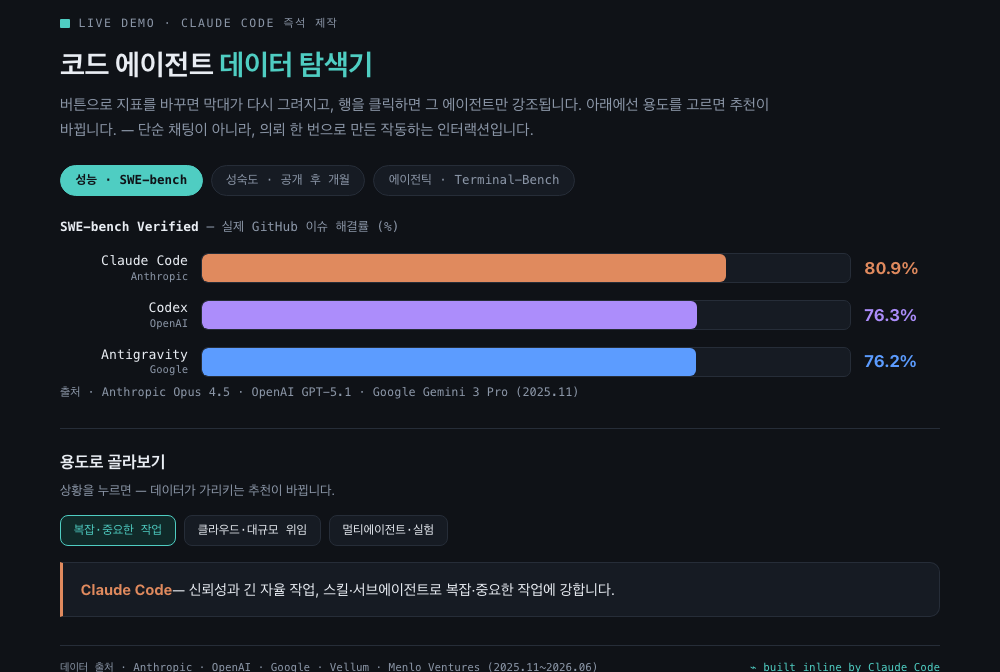
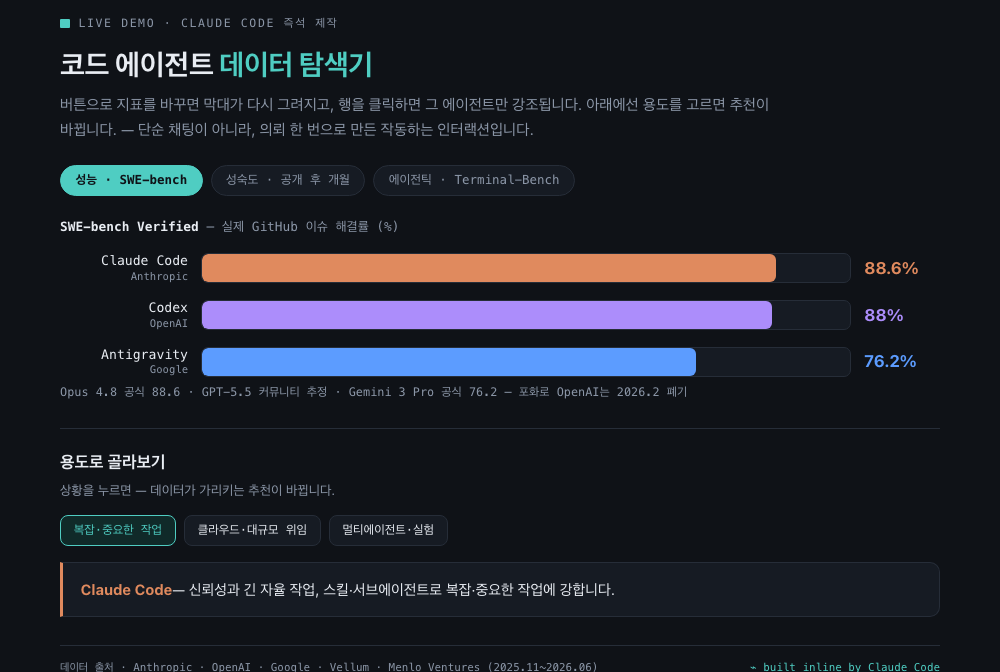
피드백 반영: 벤치마크 최신화·출처 링크·문구 정리(im-not-ai)
- 벤치마크: SWE-bench 추이(33%→89%)로 수준 체감 + 2026 최신(Opus 4.8 88.6%) + GPT-5.5 정직 처리(포화·폐기 프레임)
- 출처를 클릭 가능한 링크로 전환
- 데모 시연 슬라이드 breadcrumb 숨김(밀도 높아 겹침)
- 결론에서 '내일을 함께 보고 싶다면' 제거 + 반복 em-dash 헤드라인·과장어·의인화·장식 따옴표 정리
- demo.html 수치 최신화(Claude 88.6) + 슬라이드 스크린샷 재캡처

diff --git a/public/demo.html b/public/demo.html
@@ -102,14 +102,14 @@
 <script>
   const DATA = {
     swe:    {name:'<b>SWE-bench Verified</b> — 실제 GitHub 이슈 해결률 (%)', max:100, unit:'%',
-             src:'출처 · Anthropic Opus 4.5 · OpenAI GPT-5.1 · Google Gemini 3 Pro (2025.11)',
-             v:{claude:80.9, codex:76.3, anti:76.2}},
+             src:'Opus 4.8 공식 88.6 · GPT-5.5 커뮤니티 추정 · Gemini 3 Pro 공식 76.2 — 포화로 OpenAI는 2026.2 폐기',
+             v:{claude:88.6, codex:88.0, anti:76.2}},
     mature: {name:'<b>성숙도</b> — 첫 공개 후 경과 (개월, 2026.06 기준)', max:18, unit:'mo',
              src:'출처 · Claude Code 2025.02 · Codex 2025.05 · Antigravity 2025.11',
              v:{claude:16, codex:13, anti:7}},
-    terminal:{name:'<b>Terminal-Bench</b> — 터미널·도구 사용 능력 (%)', max:100, unit:'%',
-             src:'출처 · 모델별 보고치 · GPT-5.3-Codex 77.3 · Opus 4.5 59.3 · Gemini 3 Pro 54.2',
-             v:{claude:59.3, codex:77.3, anti:54.2}},
+    terminal:{name:'<b>Terminal-Bench 2.0</b> — 터미널·도구 사용 능력 (%)', max:100, unit:'%',
+             src:'모델별 보고치 · GPT-5.5 82.7 · Opus 4.x 59.3 · Gemini 3 Pro 54.2',
+             v:{claude:59.3, codex:82.7, anti:54.2}},
   };
   const RECO = {
     reliable:{p:'claude', t:'<b>Claude Code</b> — 신뢰성과 긴 자율 작업, 스킬·서브에이전트로 복잡·중요한 작업에 강합니다.'},

diff --git a/slides.md b/slides.md
@@ -67,7 +67,7 @@ layout: center
 
 <div class="trio">
 <div class="pane key" style="border-color:var(--claude)"><h3><span class="latin" style="color:var(--claude)">ANTHROPIC</span>Claude&nbsp;Code</h3><p>터미널 태생의 에이전트. 스킬·서브에이전트·긴 자율 작업으로 <b>신뢰성</b>이 강점. 기본 모델 Opus 4.8.</p></div>
-<div class="pane key" style="border-color:var(--codex)"><h3><span class="latin" style="color:var(--codex)">OPENAI</span>Codex</h3><p>ChatGPT에 통합된 에이전트. <b>클라우드 위임·코드 리뷰</b>가 강점. GPT-5-Codex 계열.</p></div>
+<div class="pane key" style="border-color:var(--codex)"><h3><span class="latin" style="color:var(--codex)">OPENAI</span>Codex</h3><p>ChatGPT에 통합된 에이전트. <b>클라우드 위임·코드 리뷰</b>가 강점. GPT-5.5 계열.</p></div>
 <div class="pane key" style="border-color:var(--antigravity)"><h3><span class="latin" style="color:var(--antigravity)">GOOGLE</span>Antigravity</h3><p>에이전트 우선 IDE. <b>Agent Manager·자율 검증</b>이 강점. Gemini 3 Pro. 2025.11 공개.</p></div>
 </div>
 
@@ -81,7 +81,7 @@ class: divider
 
 ## 공통점 — 셋 다 충분히 강하다
 
-<p class="div-sub">먼저 묶어서: 성능·생산성·기본 능력은 이미 「충분」의 영역에 들어섰다</p>
+<p class="div-sub">성능·생산성·기본기는 이미 충분한 수준에 올라섰다</p>
 
 <p class="div-file">정량 근거 · 벤치마크 · 설문</p>
 
@@ -89,31 +89,37 @@ class: divider
 
 <p class="crumbs"><b>코드 에이전트 비교</b><span>공통점</span><em>성능 — 벤치마크</em></p>
 
-# 실전 코딩 벤치마크에서, <em>셋 다 76% 이상</em>
+# 2년 만에 <em>33% → 89%</em>, 벤치마크가 천장에 닿았다
 
 <figure class="figure">
-<svg viewBox="0 0 760 250" xmlns="http://www.w3.org/2000/svg" role="img" aria-label="SWE-bench Verified 점수 막대그래프: Claude Opus 4.5 80.9퍼센트, GPT-5.1 76.3퍼센트, Gemini 3 Pro 76.2퍼센트">
-  <line x1="150" y1="20" x2="150" y2="210" style="stroke:var(--rule);stroke-width:1.5"/>
-  <line x1="150" y1="40" x2="720" y2="40" style="stroke:var(--rule);stroke-width:1;stroke-dasharray:3 5"/>
-  <text x="724" y="44" style="font-size:11px;font-family:var(--mono);fill:var(--dim)">80%</text>
-  <text x="140" y="57" text-anchor="end" style="font-size:13px;font-family:var(--mono);fill:var(--ink)">Claude Code</text>
-  <text x="140" y="72" text-anchor="end" style="font-size:10.5px;font-family:var(--mono);fill:var(--dim)">Opus 4.5</text>
-  <rect x="150" y="48" width="486" height="26" rx="4" style="fill:var(--claude)"/>
-  <text x="646" y="67" style="font-size:14px;font-family:var(--display);font-weight:700;fill:var(--claude)">80.9%</text>
-  <text x="140" y="117" text-anchor="end" style="font-size:13px;font-family:var(--mono);fill:var(--ink)">Codex</text>
-  <text x="140" y="132" text-anchor="end" style="font-size:10.5px;font-family:var(--mono);fill:var(--dim)">GPT-5.1</text>
-  <rect x="150" y="108" width="458" height="26" rx="4" style="fill:var(--codex)"/>
-  <text x="618" y="127" style="font-size:14px;font-family:var(--display);font-weight:700;fill:var(--codex)">76.3%</text>
-  <text x="140" y="177" text-anchor="end" style="font-size:13px;font-family:var(--mono);fill:var(--ink)">Antigravity</text>
-  <text x="140" y="192" text-anchor="end" style="font-size:10.5px;font-family:var(--mono);fill:var(--dim)">Gemini 3 Pro</text>
-  <rect x="150" y="168" width="457" height="26" rx="4" style="fill:var(--antigravity)"/>
-  <text x="617" y="187" style="font-size:14px;font-family:var(--display);font-weight:700;fill:var(--antigravity)">76.2%</text>
-  <text x="150" y="232" style="font-size:11px;font-family:var(--mono);fill:var(--dim)">SWE-bench Verified · 실제 GitHub 이슈를 에이전트가 해결한 비율 (2025.11 기준)</text>
+<svg viewBox="0 0 760 252" width="660" xmlns="http://www.w3.org/2000/svg" role="img" aria-label="SWE-bench Verified 점수 추이: 2024년 GPT-4o 33퍼센트에서 2026년 Claude Opus 4.8 88.6퍼센트로 상승">
+  <line x1="55" y1="205" x2="745" y2="205" style="stroke:var(--rule);stroke-width:1.5"/>
+  <line x1="55" y1="40" x2="745" y2="40" style="stroke:var(--rule);stroke-width:1;stroke-dasharray:3 6"/>
+  <text x="50" y="44" text-anchor="end" style="font-size:10px;font-family:var(--mono);fill:var(--dim)">100%</text>
+  <polyline points="130,150 310,124 490,79 660,59" fill="none" style="stroke:var(--accent);stroke-width:2;stroke-dasharray:5 4;opacity:.55"/>
+  <rect x="92" y="150" width="76" height="55" rx="4" style="fill:var(--codex)"/>
+  <text x="130" y="142" text-anchor="middle" style="font-size:15px;font-family:var(--display);font-weight:700;fill:var(--codex)">33%</text>
+  <text x="130" y="224" text-anchor="middle" style="font-size:11px;font-family:var(--mono);fill:var(--ink)">GPT-4o</text>
+  <text x="130" y="239" text-anchor="middle" style="font-size:9.5px;font-family:var(--mono);fill:var(--dim)">2024.08</text>
+  <rect x="272" y="124" width="76" height="81" rx="4" style="fill:var(--claude)"/>
+  <text x="310" y="116" text-anchor="middle" style="font-size:15px;font-family:var(--display);font-weight:700;fill:var(--claude)">49%</text>
+  <text x="310" y="224" text-anchor="middle" style="font-size:11px;font-family:var(--mono);fill:var(--ink)">Claude 3.5</text>
+  <text x="310" y="239" text-anchor="middle" style="font-size:9.5px;font-family:var(--mono);fill:var(--dim)">2024.10</text>
+  <rect x="452" y="79" width="76" height="126" rx="4" style="fill:var(--antigravity)"/>
+  <text x="490" y="71" text-anchor="middle" style="font-size:15px;font-family:var(--display);font-weight:700;fill:var(--antigravity)">76%</text>
+  <text x="490" y="224" text-anchor="middle" style="font-size:11px;font-family:var(--mono);fill:var(--ink)">Gemini 3 Pro</text>
+  <text x="490" y="239" text-anchor="middle" style="font-size:9.5px;font-family:var(--mono);fill:var(--dim)">2025.11</text>
+  <rect x="622" y="59" width="76" height="146" rx="4" style="fill:var(--claude)"/>
+  <text x="660" y="51" text-anchor="middle" style="font-size:15px;font-family:var(--display);font-weight:700;fill:var(--claude)">88.6%</text>
+  <text x="660" y="224" text-anchor="middle" style="font-size:11px;font-family:var(--mono);fill:var(--ink)">Opus 4.8</text>
+  <text x="660" y="239" text-anchor="middle" style="font-size:9.5px;font-family:var(--mono);fill:var(--dim)">2026.05</text>
 </svg>
-<figcaption>코딩 특화 모델(GPT-5.2-Codex 등)은 80%대까지 — 세 진영 모두 「실무에 충분한」 구간에 있다</figcaption>
+<figcaption>SWE-bench Verified — 실제 GitHub 이슈 500개를 고친 비율. 막대 색은 만든 곳: <span class="t-codex">OpenAI</span> · <span class="t-claude">Anthropic</span> · <span class="t-anti">Google</span></figcaption>
 </figure>
 
-<p class="refs">출처 · Anthropic (Claude Opus 4.5, 2025.11) · Google (Gemini 3) · Vellum 벤치마크 정리</p>
+<p class="note"><b>포화의 신호</b> 너무 쉬워지자 OpenAI는 2026.2에 Verified를 폐기하고 더 어려운 <b>SWE-bench Pro</b>(최고 ~69%)로 옮겼다. 세 곳의 최신 모델이 함께 그 최전선에 있다.</p>
+
+<p class="refs">출처 · <a href="https://www.anthropic.com/news/claude-opus-4-8" target="_blank">Opus 4.8</a> · <a href="https://blog.google/products-and-platforms/products/gemini/gemini-3/" target="_blank">Gemini 3</a> · <a href="https://www.swebench.com/verified.html" target="_blank">SWE-bench</a> · <a href="https://openai.com/index/why-we-no-longer-evaluate-swe-bench-verified/" target="_blank">Verified 폐기 선언</a></p>
 
 ---
 
@@ -129,13 +135,13 @@ class: divider
 
 <p class="lead">DORA의 결론은 한 문장: <em>「AI는 증폭기(amplifier)다」</em> 도구 자체보다, 그것을 감싸는 플랫폼·관행의 성숙도가 가치를 가른다.</p>
 
-<p class="refs">출처 · DORA "State of AI-assisted Software Development 2025" (dora.dev) · Stack Overflow Developer Survey 2025 (survey.stackoverflow.co)</p>
+<p class="refs">출처 · <a href="https://dora.dev/dora-report-2025/" target="_blank">DORA 2025</a> · <a href="https://survey.stackoverflow.co/2025/ai/" target="_blank">Stack Overflow Developer Survey 2025</a></p>
 
 ---
 
 <p class="crumbs"><b>코드 에이전트 비교</b><span>공통점</span><em>기본 능력 — 공유하는 구조</em></p>
 
-# 셋이 똑같이 하는 일 — <em>계획 → 실행 → 검증</em>의 루프
+# 셋 다 계획하고, 실행하고, <em>스스로 검증한다</em>
 
 <div class="flow">
 <div><b>이해</b><span>전체 코드베이스를<br>읽고 맥락 파악</span></div>
@@ -154,7 +160,7 @@ class: divider
 
 <p class="crumbs"><b>코드 에이전트 비교</b><span>공통점</span><em>공통 인터페이스·기능</em></p>
 
-# 쓰는 법도 닮았다 — <em>같은 엔진, 여러 표면</em>
+# 엔진은 하나, <em>굴리는 표면은 여럿</em>
 
 <div class="split">
 <div>
@@ -186,7 +192,7 @@ class: divider codex
 
 ## 차별점 — 플랫폼마다 강한 곳이 다르다
 
-<p class="div-sub">이제 따로따로: 같은 능력 위에 각 팀이 올린 「특별한 한 가지」</p>
+<p class="div-sub">같은 능력 위에 각 팀이 얹은 특별한 한 가지</p>
 
 <p class="div-file">Claude Code · Codex · Antigravity</p>
 
@@ -214,7 +220,7 @@ class: claude
 
 <p class="crumbs"><b>코드 에이전트 비교</b><span>차별점</span><em>Claude Code · 최신 업데이트</em></p>
 
-# 최근에 들어온 것 — <em>오케스트레이션</em>으로 확장
+# Claude Code는 요즘 <em>오케스트레이션</em>으로 넓어졌다
 
 <div class="split evidence">
 <div>
@@ -233,7 +239,7 @@ class: claude
 </div>
 </div>
 
-<p class="refs">출처 · code.claude.com/docs (whats-new W16~W24) · Anthropic 뉴스</p>
+<p class="refs">출처 · <a href="https://code.claude.com/docs/en/whats-new" target="_blank">code.claude.com — What's new</a> · <a href="https://www.anthropic.com/news/claude-opus-4-8" target="_blank">Anthropic 뉴스</a></p>
 
 ---
 class: codex
@@ -259,12 +265,12 @@ class: codex
 
 <p class="crumbs"><b>코드 에이전트 비교</b><span>차별점</span><em>Codex · 최신 업데이트</em></p>
 
-# 최근에 들어온 것 — <em>모바일까지 잇는 통합 표면</em>
+# Codex는 이제 <em>모바일까지</em> 한 흐름으로 잇는다
 
 <div class="split evidence">
 <div>
 <div class="timeline">
-<div><b>GPT-5.2 · 5.3-Codex</b><span>SWE-bench 80% · Terminal-Bench 77.3% · ~25% 더 빠름</span></div>
+<div><b>GPT-5.5 · Codex 계열</b><span>Terminal-Bench 2.0 82.7% · SWE-bench Pro 58.6% — 최상위권</span></div>
 <div><b>Codex Remote — 모바일 GA</b><span>2026.6 · QR 페어링으로 폰에서 승인·diff 리뷰</span></div>
 <div><b>데스크탑 앱 통합</b><span>Task 사이드바 · PR 리뷰 페인 · Artifact 뷰어</span></div>
 <div><b>멀티에이전트 위임 · <code>/import</code></b><span>서브에이전트 위임 · Claude Code 설정 가져오기</span></div>
@@ -278,7 +284,7 @@ class: codex
 </div>
 </div>
 
-<p class="refs">출처 · developers.openai.com/codex/changelog · OpenAI 뉴스 (2025.09~2026.06)</p>
+<p class="refs">출처 · <a href="https://developers.openai.com/codex/changelog" target="_blank">Codex Changelog</a> · <a href="https://openai.com/index/introducing-upgrades-to-codex/" target="_blank">OpenAI 뉴스</a></p>
 
 ---
 class: antigravity
@@ -305,7 +311,7 @@ class: antigravity
 </div>
 </div>
 
-<p class="refs">출처 · antigravity.google · Google Developers Blog (2025.11.18) · Scalable Path 리뷰</p>
+<p class="refs">출처 · <a href="https://antigravity.google" target="_blank">antigravity.google</a> · <a href="https://developers.googleblog.com/build-with-google-antigravity-our-new-agentic-development-platform/" target="_blank">Google Developers Blog</a></p>
 
 ---
 class: divider
@@ -327,7 +333,7 @@ class: divider
 
 <div class="split">
 <div>
-<p class="thesis">파이프·스크립트·자동화에 강한 CLI는 지금도 가장 강력한 표면이다. 셋 다 한 줄로 설치된다.</p>
+<p class="thesis">파이프·스크립트·자동화에선 CLI를 따라올 게 없다. 셋 다 한 줄로 설치된다.</p>
 
 ```bash
 # Claude Code
@@ -366,7 +372,7 @@ curl -fsSL https://chatgpt.com/codex/install.sh | sh
 
 <p class="crumbs"><b>코드 에이전트 비교</b><span>인터페이스</span><em>데스크탑 앱이 푸는 것</em></p>
 
-# 데스크탑 앱 — <em>보면서, 누르면서, 따라가면서</em>
+# 데스크탑 앱은 <em>보고, 누르고, 따라가게</em> 한다
 
 <figure class="figure">
 <svg viewBox="0 0 820 300" xmlns="http://www.w3.org/2000/svg" role="img" aria-label="데스크탑 앱 구조: 왼쪽 세션 사이드바, 가운데 대화·diff, 오른쪽 작업 추적·파일 패널">
@@ -412,7 +418,7 @@ curl -fsSL https://chatgpt.com/codex/install.sh | sh
 
 <p class="crumbs"><b>코드 에이전트 비교</b><span>인터페이스</span><em>왜 데스크탑인가</em></p>
 
-# 그래서 데스크탑 앱을 권한다 — <em>네 가지 이유</em>
+# 데스크탑 앱을 권하는 <em>네 가지 이유</em>
 
 <div class="quad">
 <div class="pane"><h3><span class="latin">①</span>마우스로 편집</h3><p>긴 프롬프트를 쓰고 중간을 고치기 쉽다. 클릭·드래그·첨부가 자연스럽다.</p></div>
@@ -427,7 +433,7 @@ curl -fsSL https://chatgpt.com/codex/install.sh | sh
 
 <p class="crumbs"><b>코드 에이전트 비교</b><span>인터페이스</span><em>세 앱의 데스크탑</em></p>
 
-# 세 앱 모두 데스크탑을 갖췄다 — <em>강조점만 다르다</em>
+# 세 앱 모두 데스크탑이 있다. <em>방점만 다르다</em>
 
 <div class="trio">
 <div class="pane key" style="border-color:var(--claude)"><h3><span class="latin" style="color:var(--claude)">CLAUDE CODE</span>Mac · Win</h3><p>Chat·Cowork·Code 탭. worktree 격리 세션, diff 인라인 코멘트, 내장 브라우저로 <b>자동 검증</b>(autoVerify).</p></div>
@@ -513,9 +519,7 @@ class: divider claude
 
 ---
 
-<p class="crumbs"><b>코드 에이전트 비교</b><span>실전</span><em>라이브 데모</em></p>
-
-# 시연 — <em>이 발표 자료를 Claude Code가 만들었다</em>
+# 이 발표 자료부터가, <em>Claude Code가 만든 것</em>이다
 
 <div class="steps">
 <div><b>스킬 호출</b><span><code>/slidev-deck-builder</code> — 7,000줄 CSS를 매번 짜지 않고 검증된 키트로 시작</span></div>
@@ -531,7 +535,7 @@ class: divider claude
 
 <p class="crumbs"><b>코드 에이전트 비교</b><span>실전</span><em>데모 — 검증 루프</em></p>
 
-# 그 「검증 루프」가 만든 증거 — <em>34장을 모두 점검</em>
+# <em>검증 루프</em>가 34장을 모두 훑고 고쳤다
 
 <p class="thesis">에이전트는 마크다운만 쓰고 끝내지 않았다. 매 슬라이드를 렌더링해 캡처하고, 하단 넘침·코드칩 대비·밀도를 자동 감사한 뒤 고쳤다.</p>
 
@@ -548,7 +552,7 @@ class: claude
 
 <p class="crumbs"><b>코드 에이전트 비교</b><span>실전</span><em>데모 — 작동하는 산출물</em></p>
 
-# 그리고 — <em>작동하는 인터랙티브 탐색기</em>도 즉석에서
+# <em>작동하는 인터랙티브 탐색기</em>도 그 자리에서
 
 <div class="split evidence">
 <div>
@@ -584,7 +588,7 @@ class: divider
 
 ---
 
-<p class="crumbs"><b>코드 에이전트 비교</b><span>성숙도</span><em>시장이 말하는 것</em></p>
+<p class="crumbs"><b>코드 에이전트 비교</b><span>성숙도</span><em>시장 점유율·매출</em></p>
 
 # 코딩 시장은 이미 <em>Claude Code·Codex</em>로 기울어 있다
 
@@ -596,7 +600,7 @@ class: divider
 
 <p class="lead">두 제품은 <em>매출·사용량·생태계</em> 모두에서 이미 규모를 입증했다. 점유율은 6개월 만에 42% → 54%로 더 벌어졌다.</p>
 
-<p class="refs">출처 · Menlo Ventures "2025 State of Generative AI"(menlovc.com) · Anthropic · Constellation Research / Axios (2026.06)</p>
+<p class="refs">출처 · <a href="https://menlovc.com/perspective/2025-the-state-of-generative-ai-in-the-enterprise/" target="_blank">Menlo Ventures 2025</a> · <a href="https://www.constellationr.com/insights/news/openai-touts-broadening-codex-usage-5-million-weekly-active-users" target="_blank">Constellation Research</a></p>
 
 ---
 class: antigravity
@@ -604,7 +608,7 @@ class: antigravity
 
 <p class="crumbs"><b>코드 에이전트 비교</b><span>성숙도</span><em>Antigravity는 아직 베타</em></p>
 
-# Antigravity는 <em>미래에 대한 베팅</em> — 아직은 초기
+# Antigravity는 <em>잠재력은 크지만</em> 아직 초기다
 
 <div class="deflist">
 <div><b>출시 시점</b><span>2025.11.18 공개 프리뷰 — 가장 어리다. 무료지만 그만큼 검증 기간이 짧다</span></div>
@@ -615,18 +619,18 @@ class: antigravity
 
 <p class="note"><b>균형 있게</b> 잠재력은 분명하다 — 속도·멀티에이전트 오케스트레이션은 강점. 다만 <em>「신뢰성이 중요한 환경이라면 지금은 Claude Code」</em>(The New Stack, 2026).</p>
 
-<p class="refs">출처 · The New Stack · DataCamp · XDA · PromptArmor · Mindgard (2025.11~2026)</p>
+<p class="refs">출처 · <a href="https://thenewstack.io/claude-code-vs-cursor-vs-codex-vs-antigravity-2026/" target="_blank">The New Stack</a> · <a href="https://www.datacamp.com/blog/claude-code-vs-antigravity" target="_blank">DataCamp</a> · <a href="https://www.promptarmor.com/resources/google-antigravity-exfiltrates-data" target="_blank">PromptArmor</a></p>
 
 ---
 
 <p class="crumbs"><b>코드 에이전트 비교</b><span>성숙도</span><em>한눈에 비교</em></p>
 
-# 세 줄 요약 — <em>강점은 다르고, 결론은 하나</em>
+# 강점은 셋이 다르고, <em>결론은 하나</em>다
 
 | 항목 | Claude Code | Codex | Antigravity |
 |---|---|---|---|
 | 강한 곳 | 신뢰성·긴 자율작업·스킬 | 클라우드 위임·코드 리뷰 | 속도·멀티에이전트·관제 |
-| 기본 모델 | Opus 4.8 | GPT-5-Codex 계열 | Gemini 3 Pro |
+| 기본 모델 | Opus 4.8 | GPT-5.5 계열 | Gemini 3 Pro |
 | 성숙도 | 높음 (ARR $1B+) | 높음 (주간 5M+) | 초기 (2025.11~) |
 | 지금 추천 | 복잡·중요 작업 | 클라우드·대규모 위임 | 실험·미래 대비 |
 
@@ -639,15 +643,15 @@ class: text-center
 
 <p class="eyebrow">결론</p>
 
-<p class="lead" style="font-size:1.5rem;max-width:54rem">무엇을 골라도 <em>만들 수 있다.</em><br>지금 확실히 만들어야 한다면 — 성숙한 <span class="t-claude">Claude Code</span>·<span class="t-codex">Codex</span>.<br>내일을 함께 보고 싶다면 — <span class="t-anti">Antigravity</span>를 곁에.</p>
+<p class="lead" style="font-size:1.5rem;max-width:54rem">셋 중 무엇으로도 원하는 걸 만든다.<br>지금 바로 맡길 일이라면 성숙한 <span class="t-claude">Claude Code</span>·<span class="t-codex">Codex</span>,<br><span class="t-anti">Antigravity</span>는 미리 시험해 둘 카드다.</p>
 
-<p style="font-size:0.86rem;color:var(--dim);margin-top:1.3rem">세 길 모두 같은 목적지로 간다. 차이는 「지금 얼마나 단단히 받쳐주느냐」다.</p>
+<p style="font-size:0.86rem;color:var(--dim);margin-top:1.3rem">차이는 무엇을 만드느냐가 아니라, 지금 얼마나 단단히 받쳐주느냐에 있다.</p>
 
 ---
 
 <p class="crumbs"><b>코드 에이전트 비교</b><span>마무리</span><em>시작하는 법</em></p>
 
-# 오늘 바로 — <em>데스크탑 앱으로 한 사이클</em>
+# 데스크탑 앱으로, <em>한 사이클</em>부터
 
 <div class="steps">
 <div><b>데스크탑 앱 설치</b><span>Claude Code(Mac/Win) 또는 Codex(Mac/Win) — CLI보다 마우스·추적이 편하다</span></div>
@@ -665,13 +669,13 @@ class: text-center
 
 <p class="eyebrow">출처 · References</p>
 
-<div class="refs" style="text-align:left;max-width:50rem;margin:0 auto;line-height:2.1">
-<b style="color:var(--ink)">공식문서</b> · code.claude.com/docs · developers.openai.com/codex · antigravity.google<br>
-<b style="color:var(--ink)">벤치마크</b> · Anthropic Opus 4.5/4.8 · Google Gemini 3 · OpenAI GPT-5-Codex · vellum.ai<br>
-<b style="color:var(--ink)">설문·시장</b> · DORA 2025 (dora.dev) · Stack Overflow Survey 2025 · Menlo Ventures "State of GenAI 2025"<br>
-<b style="color:var(--ink)">사용량·성숙도</b> · Constellation Research · Axios · The New Stack · DataCamp · XDA<br>
-<b style="color:var(--ink)">보안</b> · PromptArmor · Mindgard · The Hacker News<br>
-<b style="color:var(--ink)">커뮤니티</b> · Hacker News "What makes Claude Code so good" · last30days (Reddit·X·GitHub, 2026.06)
+<div class="refs" style="text-align:left;max-width:52rem;margin:0 auto;line-height:2.2">
+<b style="color:var(--ink)">공식문서</b> · <a href="https://code.claude.com/docs" target="_blank">code.claude.com</a> · <a href="https://developers.openai.com/codex" target="_blank">developers.openai.com/codex</a> · <a href="https://antigravity.google" target="_blank">antigravity.google</a><br>
+<b style="color:var(--ink)">벤치마크</b> · <a href="https://www.anthropic.com/news/claude-opus-4-8" target="_blank">Anthropic Opus 4.8</a> · <a href="https://blog.google/products-and-platforms/products/gemini/gemini-3/" target="_blank">Google Gemini 3</a> · <a href="https://openai.com/index/introducing-gpt-5-5/" target="_blank">OpenAI GPT-5.5</a> · <a href="https://www.swebench.com/verified.html" target="_blank">SWE-bench</a> · <a href="https://www.vellum.ai/blog/claude-opus-4-8-benchmarks-explained" target="_blank">Vellum</a><br>
+<b style="color:var(--ink)">설문·시장</b> · <a href="https://dora.dev/dora-report-2025/" target="_blank">DORA 2025</a> · <a href="https://survey.stackoverflow.co/2025/ai/" target="_blank">Stack Overflow 2025</a> · <a href="https://menlovc.com/perspective/2025-the-state-of-generative-ai-in-the-enterprise/" target="_blank">Menlo Ventures</a><br>
+<b style="color:var(--ink)">사용량·성숙도</b> · <a href="https://www.constellationr.com/insights/news/openai-touts-broadening-codex-usage-5-million-weekly-active-users" target="_blank">Constellation</a> · <a href="https://thenewstack.io/claude-code-vs-cursor-vs-codex-vs-antigravity-2026/" target="_blank">The New Stack</a> · <a href="https://www.datacamp.com/blog/claude-code-vs-antigravity" target="_blank">DataCamp</a> · <a href="https://www.xda-developers.com/used-claude-code-google-antigravity-codex-for-month-have-clear-winner/" target="_blank">XDA</a><br>
+<b style="color:var(--ink)">보안</b> · <a href="https://www.promptarmor.com/resources/google-antigravity-exfiltrates-data" target="_blank">PromptArmor</a> · <a href="https://mindgard.ai/blog/google-antigravity-persistent-code-execution-vulnerability" target="_blank">Mindgard</a><br>
+<b style="color:var(--ink)">커뮤니티</b> · <a href="https://news.ycombinator.com/item?id=44998295" target="_blank">Hacker News</a> · last30days (Reddit·X·GitHub, 2026.06)
 </div>
 
 <p style="font-size:0.82rem;color:var(--dim);margin-top:1.4rem">이 발표 자료는 Claude Code가 slidev-deck-builder 스킬 + 병렬 서브에이전트 리서치 + 캡처-검증 루프로 제작했습니다.</p>